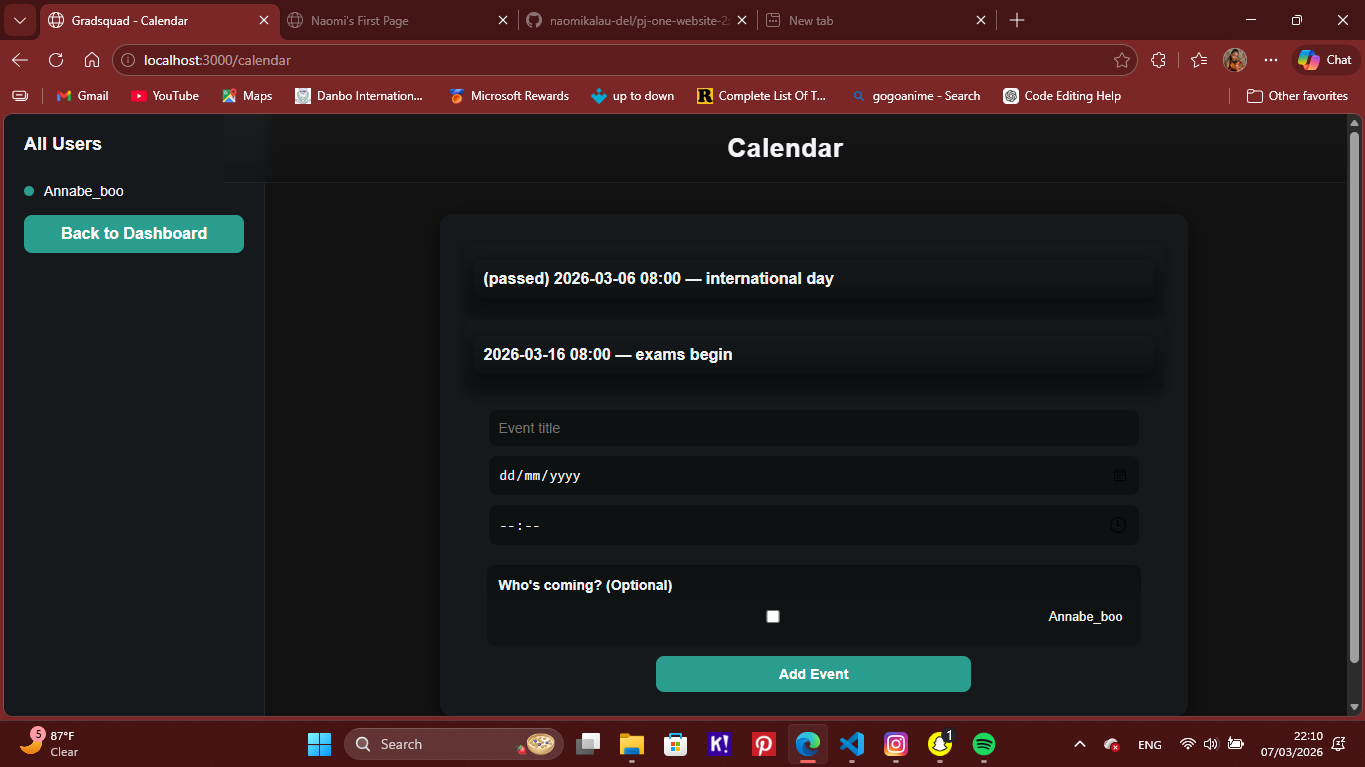
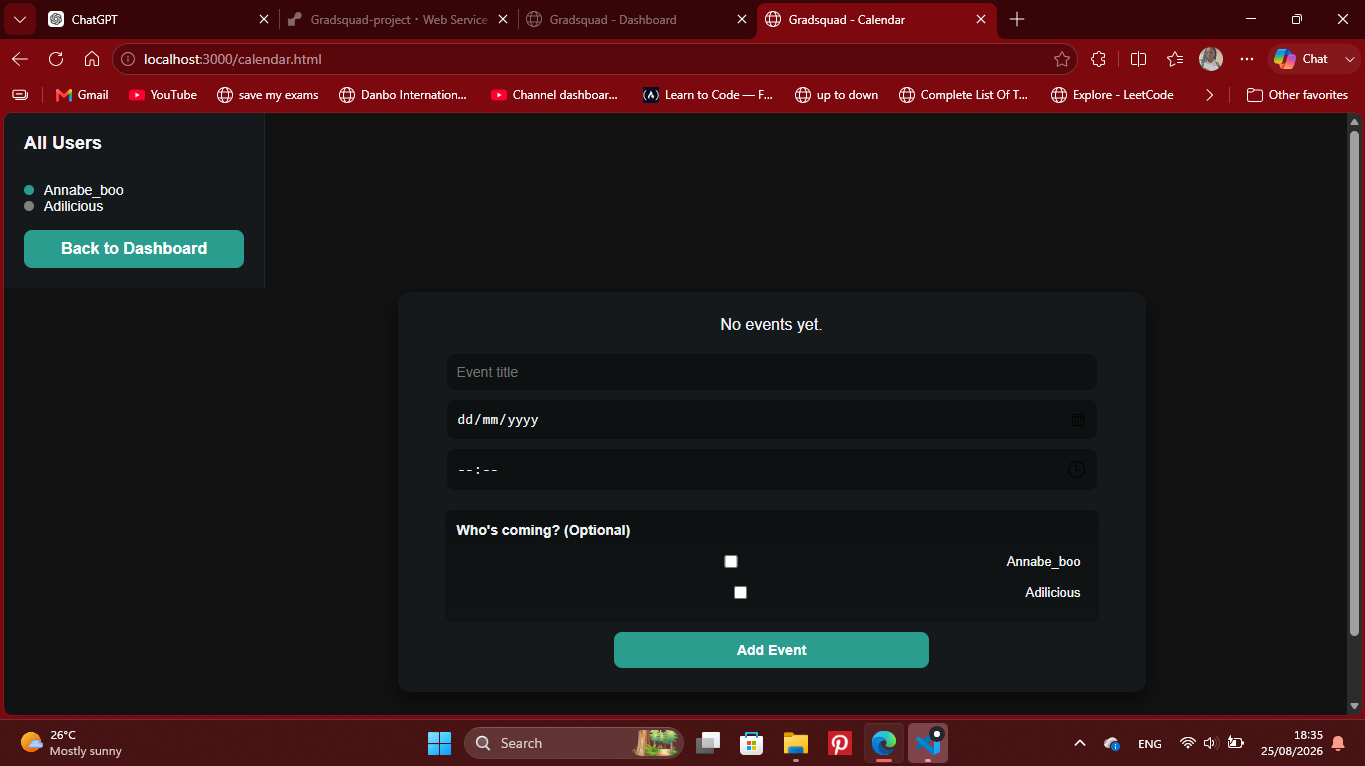
Finalize app layout and screenshots

diff --git a/home.html b/home.html
@@ -17,6 +17,9 @@
         padding: 0;
         display: flex;
         flex-direction: column;
+        min-height: 100vh;
+        padding-top: 96px;
+        box-sizing: border-box;
       }
       
       header {
@@ -36,14 +39,31 @@
       h1 { 
         display: none;
       }
+
+      .welcome-title {
+        display: block;
+        position: fixed;
+        top: 0;
+        left: 0;
+        z-index: 100;
+        width: 100%;
+        box-sizing: border-box;
+        margin: 0;
+        padding: 28px 20px;
+        font-size: 2em;
+        color: #fff;
+        background: #0f1416;
+      }
       
       .forms-container {
         display: flex;
         justify-content: center;
         gap: 80px;
         max-width: 1000px;
-        margin: 0 auto;
-        padding: 40px 20px 40px 20px;
+        margin: auto auto -48px;
+        padding: 40px 20px;
+        position: relative;
+        top: 96px;
       }
       
       .form-section {
@@ -51,11 +71,15 @@
         width: 320px;
       }
       
-      .form-section h2 {
+      .form-title {
         margin: 0 0 30px 0;
         font-size: 1.8em;
-        color: #333;
+        color: #fff !important;
         font-weight: 700;
+        display: block;
+        position: relative;
+        z-index: 1;
+        text-align: center;
       }
       
       form {
@@ -116,9 +140,11 @@
     </style>
   </head>
   <body>
+    <h1 class="welcome-title">Welcome to the Digital Memory Box: 2K27 🎓</h1>
+
     <div class="forms-container">
       <div class="form-section">
-        <h2>Sign Up</h2>
+        <div class="form-title">Sign Up</div>
         <form id="signupForm">
           <input id="signupNickname" placeholder="Nickname" autocomplete="off" />
           <input id="signupPassword" type="password" placeholder="Password" autocomplete="off" />
@@ -132,7 +158,7 @@
       </div>
 
       <div class="form-section">
-        <h2>Log In</h2>
+        <div class="form-title">Login</div>
         <form id="loginForm">
           <input id="loginNickname" placeholder="Nickname" autocomplete="off" />
           <input id="loginPassword" type="password" placeholder="Password" autocomplete="off" />

diff --git a/sidebar.js b/sidebar.js
@@ -5,7 +5,6 @@
 async function loadSidebar(showBackButton = true){
   const sidebar = document.createElement("aside");
   sidebar.className = "sidebar";
-  sidebar.style.position = "relative"; // needed for bottom-left icon
 
   sidebar.innerHTML = `
     <h2>All Users</h2>

diff --git a/README.md b/README.md
@@ -7,7 +7,7 @@ a platform for my best friends and i to connect, plan get-togethers and have fun
 Below are some screenshots of the application interface.
 
 ## Home
-![Home](assets/home.png)
+![Home](assets/login%20page.png)
 
 ## Dashboard
 ![Dashboard](assets/dashboard.png)
@@ -19,19 +19,21 @@ Below are some screenshots of the application interface.
 ![Calendar](assets/calendar.png)
 
 ## Chat
-![Chat](assets/chat.png)
+![Chat 1](assets/chat%201.png)
+![Chat 2](assets/chat%202.png)
 
 ## Profile
-![Profile](assets/profile.png)
+![Profile 1](assets/profile%201.png)
+![Profile 2](assets/profile%202.png)
 
 ## Settings
 ![Settings](assets/settings.png)
 
 ## Birthday Feature
-![Birthday](assets/birthday.png)
+![Birthday](assets/birthdays.png)
 
 ## Photos
-![Photos](assets/photos.png)
+![Photos](assets/photo%20album.png)
 
 ---
 
